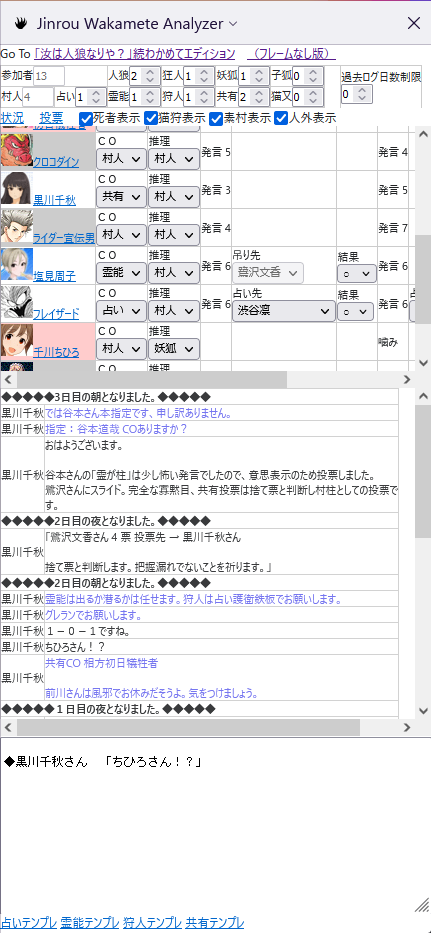
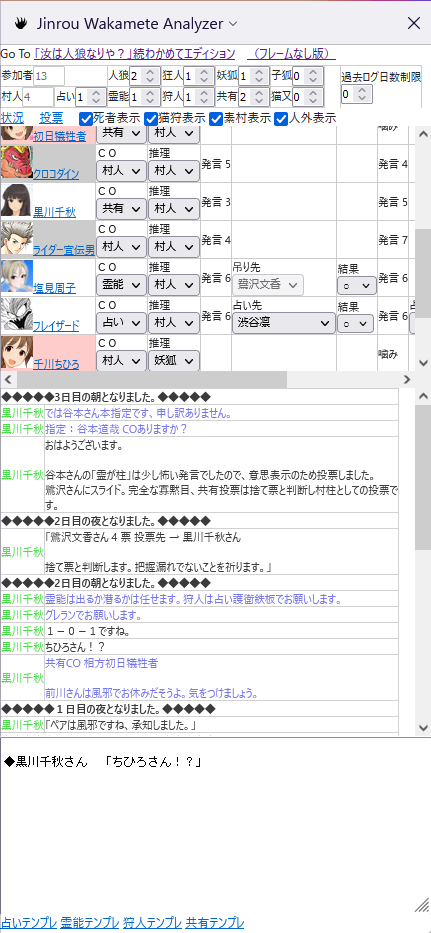
change README.md with #138

diff --git a/README.md b/README.md
@@ -138,7 +138,7 @@ Japanese only, because Wakamete Server can support only Japanese.
 1. サイドバー中央下部の **状況表示領域** は、配役情報、村のログ、および推理表の入力に応じて、推理に役立つ情報が適宜表示される。
     1. 状況表示領域は、「状況表示」「投票表示」「発言表示」の３つのモードが存在する。
     1. 状況表示モードへは、推理表上部「状況」のリンクをクリックすることで遷移する。表示イメージは、推理表の項を参照。
-        1. 参加者の文字色は、わかめて過去ログの役職者に準ずる。人外推理者は人狼とも妖狐ともつかない色（カラーコード #cc4400、橙色～琥珀色）をつけている。
+        1. 役職CO者、人外推理者については、名前および投票結果に文字色がつく。文字色は、わかめて過去ログの役職者に準ずる。人外推理者は人狼とも妖狐ともつかない色（カラーコード #cc4400、橙色～琥珀色）をつけている。
     1. 投票表示モードへは、推理表上部「投票」のリンクをクリックすることで遷移する。  
        ![サイドバーの状態「投票」](./doc/usage-3.png "サイドバーの状態「投票」")  
         1. 投票は日付順・投票回数順で表示される（推理表と異なり、逆順ではない）。
@@ -153,7 +153,8 @@ Japanese only, because Wakamete Server can support only Japanese.
         1. 本ツールが２回連続グレランと判断した場合に、役職CO者以外が投票先の変更を行った場合、文字フォントを変更する（モノスペース・太字）。
     1. 発言表示モードへは、推理表内、参加者の名前、または、日付をクリックすることで遷移する。  
        ![サイドバーの状態「発言」](./doc/usage-4.png "サイドバーの状態「発言」")  
-        1. 図は参加者名をクリックした場合のもの。わかめてサーバと同様に、下から日付順にて表示される。
+        1. 図は日付をクリックした場合のもの（参加者名をクリックした場合の図は後掲）。わかめてサーバと同様に、下から日付順にて表示される。
+        1. 役職CO者、人外推理者については、名前および投票結果に文字色がつく。文字色は状況表示モードと同じものとする。
         1. 「発言強く」および「発言弱く」も同様に表示されるが、「発言弱く」は発言強調に利用されている実情を顧みて、通常発言と同じフォントサイズとしている。
         1. 夜の会話については、参加者から見えているもののみ表示される。
         1. 日付の区切りは「◆◆◆◆◆ 日付説明 ◆◆◆◆◆」と表示される。
